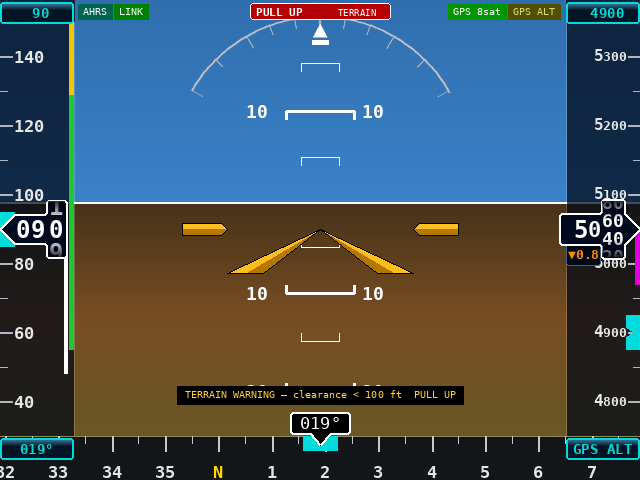
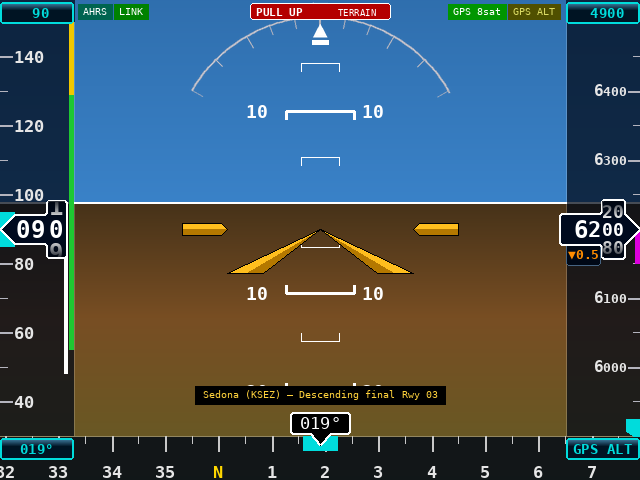
Clean up terrain alert previews — overlay on standard approach screenshot
Replace fabricated draw_scene calls with draw_terrain_alert_preview()
which composites the banner directly onto preview_sedona_approach.png
with no veil or scenario label, matching how the display actually looks.
Update USER_MANUAL.md to use standalone image blocks instead of a table.

https://claude.ai/code/session_017SH8gTHM3ctk1qfSPqffyG

diff --git a/tools/preview_640x480.py b/tools/preview_640x480.py
@@ -1687,27 +1687,40 @@ draw_scene(
     ahrs_ok=True, gps_ok=True, baro_ok=False, sats=8,
 )
 
-# Terrain alert — CAUTION (amber banner)
-draw_scene(
-    roll=0, pitch=-3, hdg=19, alt=5300, speed=90,
-    vspeed=-800, ay=0.0, hdg_bug=19, alt_bug=4900,
-    gs_bug=90,
-    label="TERRAIN CAUTION — clearance < 500 ft",
-    filename=os.path.join(OUT, "preview_terrain_caution.png"),
-    ahrs_ok=True, gps_ok=True, baro_ok=False, sats=8,
-    terrain_alert=1,
-)
+def draw_terrain_alert_preview(filename, level):
+    """
+    Overlay a terrain alert banner on the standard approach screenshot.
+    level 1 = CAUTION (amber), level 2 = WARNING (red PULL UP).
+    No veil — the PFD is shown clean so the banner placement is clear.
+    """
+    bg_path = os.path.join(OUT, "preview_sedona_approach.png")
+    if os.path.exists(bg_path):
+        img = Image.open(bg_path).convert("RGB")
+    else:
+        img = Image.new("RGB", (W, H), (0, 8, 22))
+    draw = ImageDraw.Draw(img)
 
-# Terrain alert — WARNING (red PULL UP banner)
-draw_scene(
-    roll=0, pitch=-3, hdg=19, alt=5050, speed=90,
-    vspeed=-800, ay=0.0, hdg_bug=19, alt_bug=4900,
-    gs_bug=90,
-    label="TERRAIN WARNING — clearance < 100 ft  PULL UP",
-    filename=os.path.join(OUT, "preview_terrain_warning.png"),
-    ahrs_ok=True, gps_ok=True, baro_ok=False, sats=8,
-    terrain_alert=2,
-)
+    bw_a = 140; bh_a = 16
+    bx_a = CX - bw_a // 2; by_a = 3
+    if level == 2:
+        bg_a = (180, 0, 0); fg_a = (255, 255, 255)
+        lbl_a = "PULL UP"; sub_a = "TERRAIN"
+    else:
+        bg_a = (160, 110, 0); fg_a = (255, 235, 0)
+        lbl_a = "TERRAIN"; sub_a = "CAUTION"
+    draw.rounded_rectangle([(bx_a, by_a), (bx_a+bw_a, by_a+bh_a)],
+                            radius=3, fill=bg_a)
+    draw.rounded_rectangle([(bx_a, by_a), (bx_a+bw_a, by_a+bh_a)],
+                            radius=3, outline=fg_a, width=1)
+    draw.text((bx_a+6, by_a+2), lbl_a, fill=fg_a, font=fnt(11, bold=True))
+    draw.text((bx_a+bw_a-52, by_a+4), sub_a, fill=fg_a, font=fnt(9))
+
+    img.save(filename)
+    print(f"Saved {filename}")
+
+
+draw_terrain_alert_preview(os.path.join(OUT, "preview_terrain_caution.png"), level=1)
+draw_terrain_alert_preview(os.path.join(OUT, "preview_terrain_warning.png"), level=2)
 
 draw_setup_screen(os.path.join(OUT, "preview_setup_main.png"))
 draw_flight_profile_screen(os.path.join(OUT, "preview_setup_flight_profile.png"))

diff --git a/Docs/USER_MANUAL.md b/Docs/USER_MANUAL.md
@@ -122,14 +122,17 @@ A white ball in the slip/skid indicator sits at the bottom of the AI.  Ball cent
 
 ### Terrain / obstacle proximity alert
 
-A banner appears centred at the top of the display whenever terrain or an obstacle is within a critical clearance margin:
+A banner appears centred at the top of the display whenever terrain or an obstacle is within a critical clearance margin.
 
-| Banner | Colour | Trigger |
-|--------|--------|---------|
-| ![Terrain caution](../tools/preview_terrain_caution.png) | Amber — **TERRAIN CAUTION** | Terrain or obstacle MSL within 500 ft below aircraft |
-| ![Terrain warning](../tools/preview_terrain_warning.png) | Red — **PULL UP  TERRAIN** | Terrain or obstacle MSL within 100 ft below aircraft |
+![Terrain caution banner](../tools/preview_terrain_caution.png)
 
-The WARNING banner flashes at 1 Hz.  Requires a valid GPS fix and either SRTM terrain tiles (Section 14) or obstacle data (Section 15) to be loaded.
+**TERRAIN  CAUTION** (amber, steady) — terrain or obstacle MSL height is within **500 ft** below aircraft altitude.
+
+![Terrain warning banner](../tools/preview_terrain_warning.png)
+
+**PULL UP  TERRAIN** (red, 1 Hz flash) — terrain or obstacle MSL height is within **100 ft** below aircraft altitude.
+
+Requires a valid GPS fix and either SRTM terrain tiles (Section 14) or obstacle data (Section 15) to be loaded.  Obstacle alerts trigger within **3 nm** of the aircraft.
 
 ---
 
